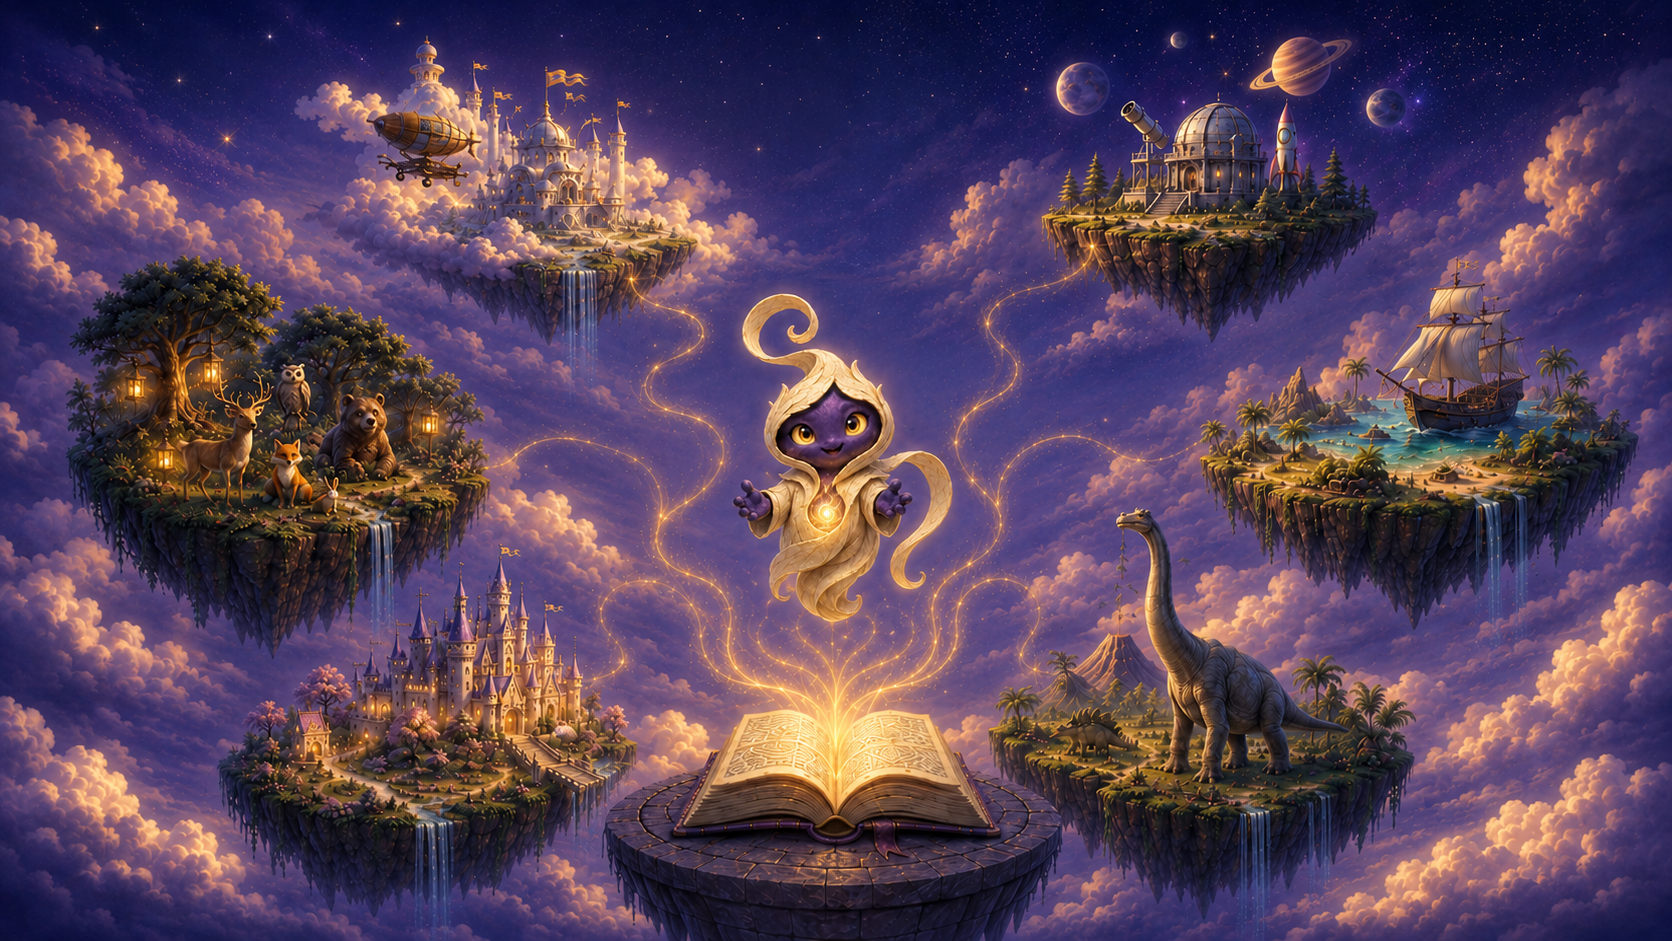
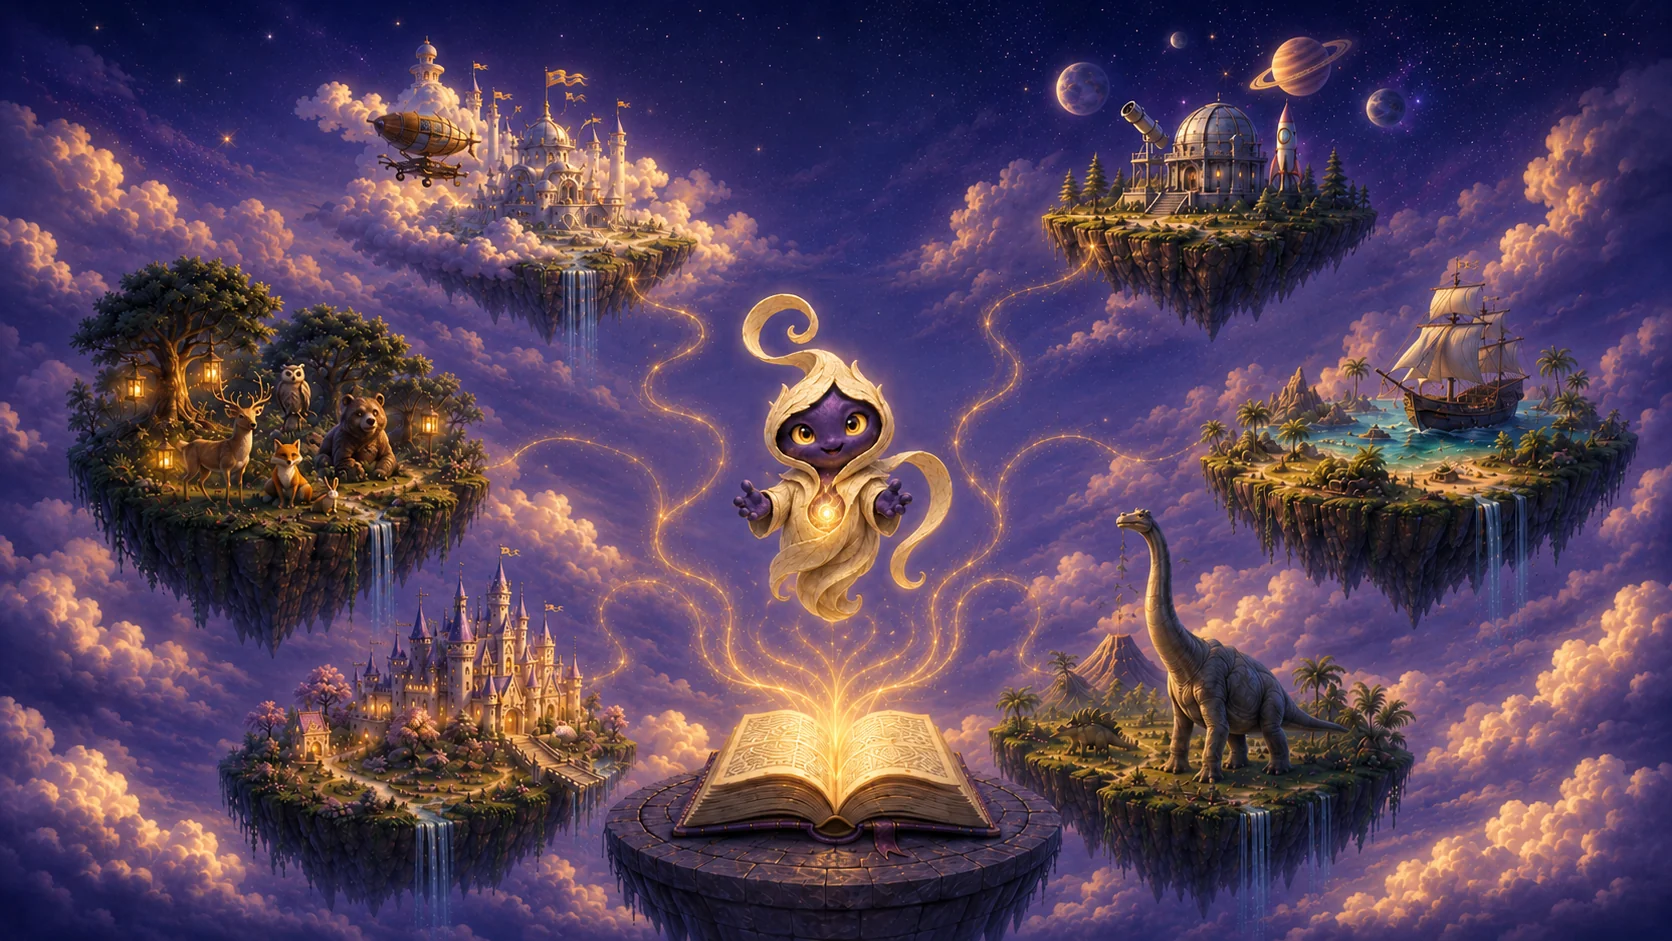
Send the paintings at a weight a phone can carry
Measured against production on 2026-09-06: the landing page was 7.2 MB over 48
requests, and the two world-map masters were 4.1 MB of it. Not because they are
large — 1672x941 and 853x1844 — but because they were stored at effectively no
compression. At q85 they are 279 KB and 285 KB, and at a 100% crop the difference
is not visible; q90 was only 1.3 dB better and a third larger again.

Same dimensions and same filenames, so the thirteen CSS rules that paint them as
backgrounds and the two modules that measure hotspots off them are untouched.
The originals are in this commit's parent if a repaint ever needs them.

The three demo pages were 6.5 MB of PNG for illustrations, now 442 KB of webp.
Nothing imports site/Preview.tsx, so those bytes were only ever deploy weight —
worth taking off the zip regardless.

The logo stays PNG because it is also the favicon and the apple-touch-icon, and
iOS will not take a webp there. Quantised to 256 colours instead: 497 KB to 59 KB,
with the gradients intact.

diff --git a/KidsAdventuresAPI/wwwroot/src/components/site/Preview.tsx b/KidsAdventuresAPI/wwwroot/src/components/site/Preview.tsx
@@ -8,21 +8,21 @@ const demoPages = [
     content:
       "When Leo looked out the window, the clouds had shaped themselves into airplanes — and one of them had his name painted on the side in golden letters.",
     isIllustrated: true,
-    illustrationUrl: "/demo/demo-page-1.png",
+    illustrationUrl: "/demo/demo-page-1.webp",
   },
   {
     title: "Through the Cloud Kingdom",
     content:
       "The friendly captain handed Leo a map made of starlight. Every page of your book can look like this — with a unique illustration starring your child.",
     isIllustrated: true,
-    illustrationUrl: "/demo/demo-page-2.png",
+    illustrationUrl: "/demo/demo-page-2.webp",
   },
   {
     title: "A Hero's Landing",
     content:
       "Leo landed softly on a runway of rainbow light. Mom and Dad cheered from the observation deck as the adventure came to a happy end.",
     isIllustrated: true,
-    illustrationUrl: "/demo/demo-page-3.png",
+    illustrationUrl: "/demo/demo-page-3.webp",
   },
 ];
 
